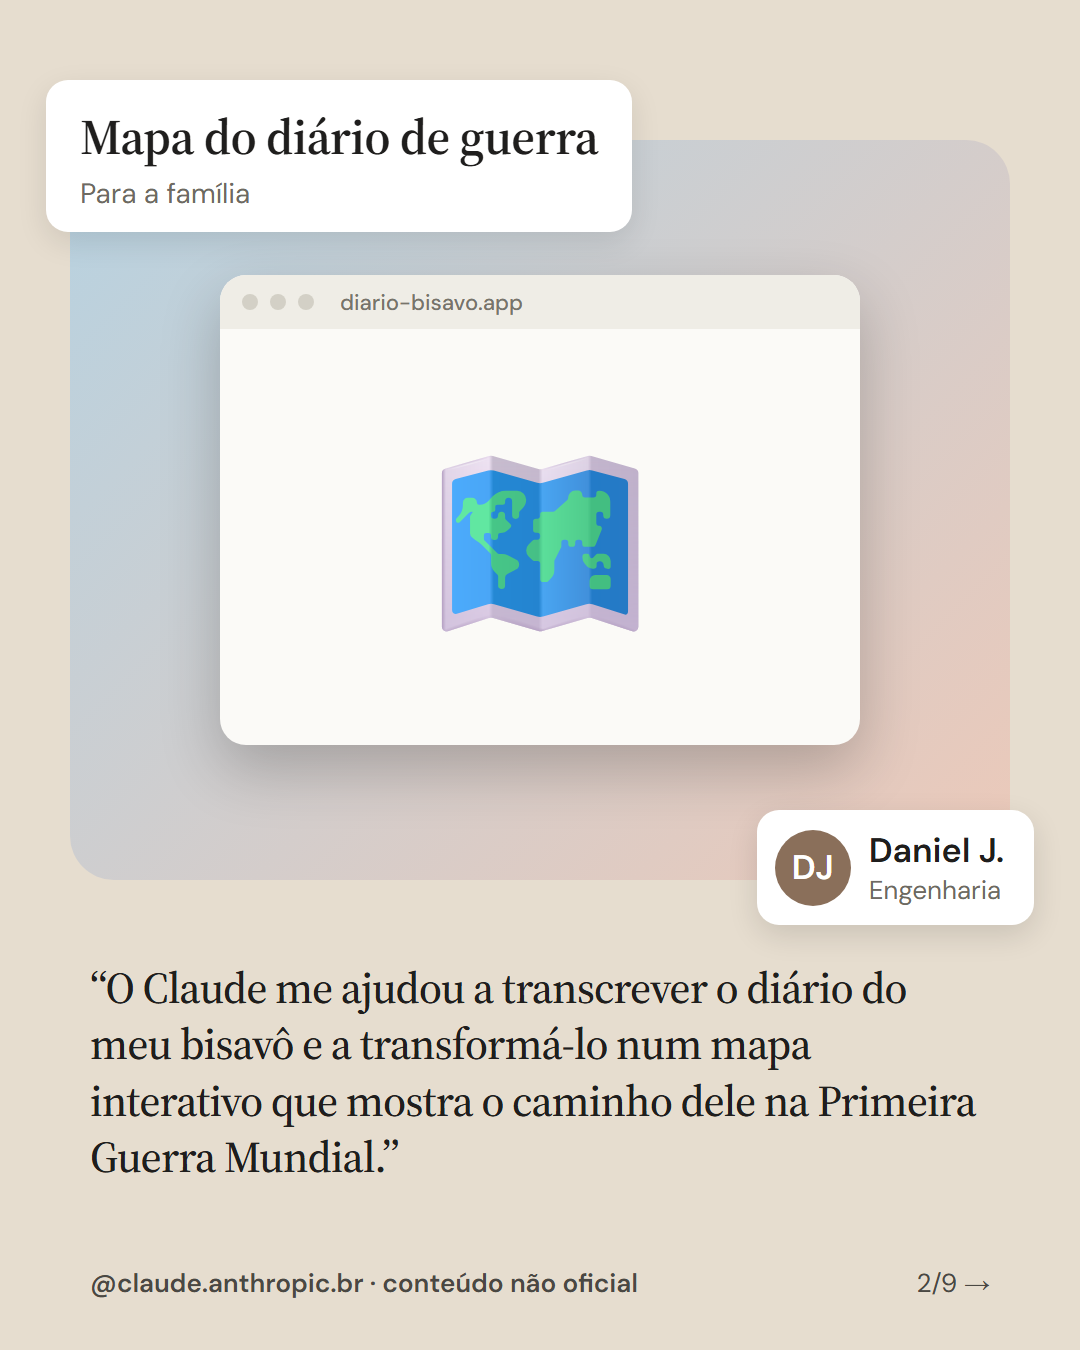
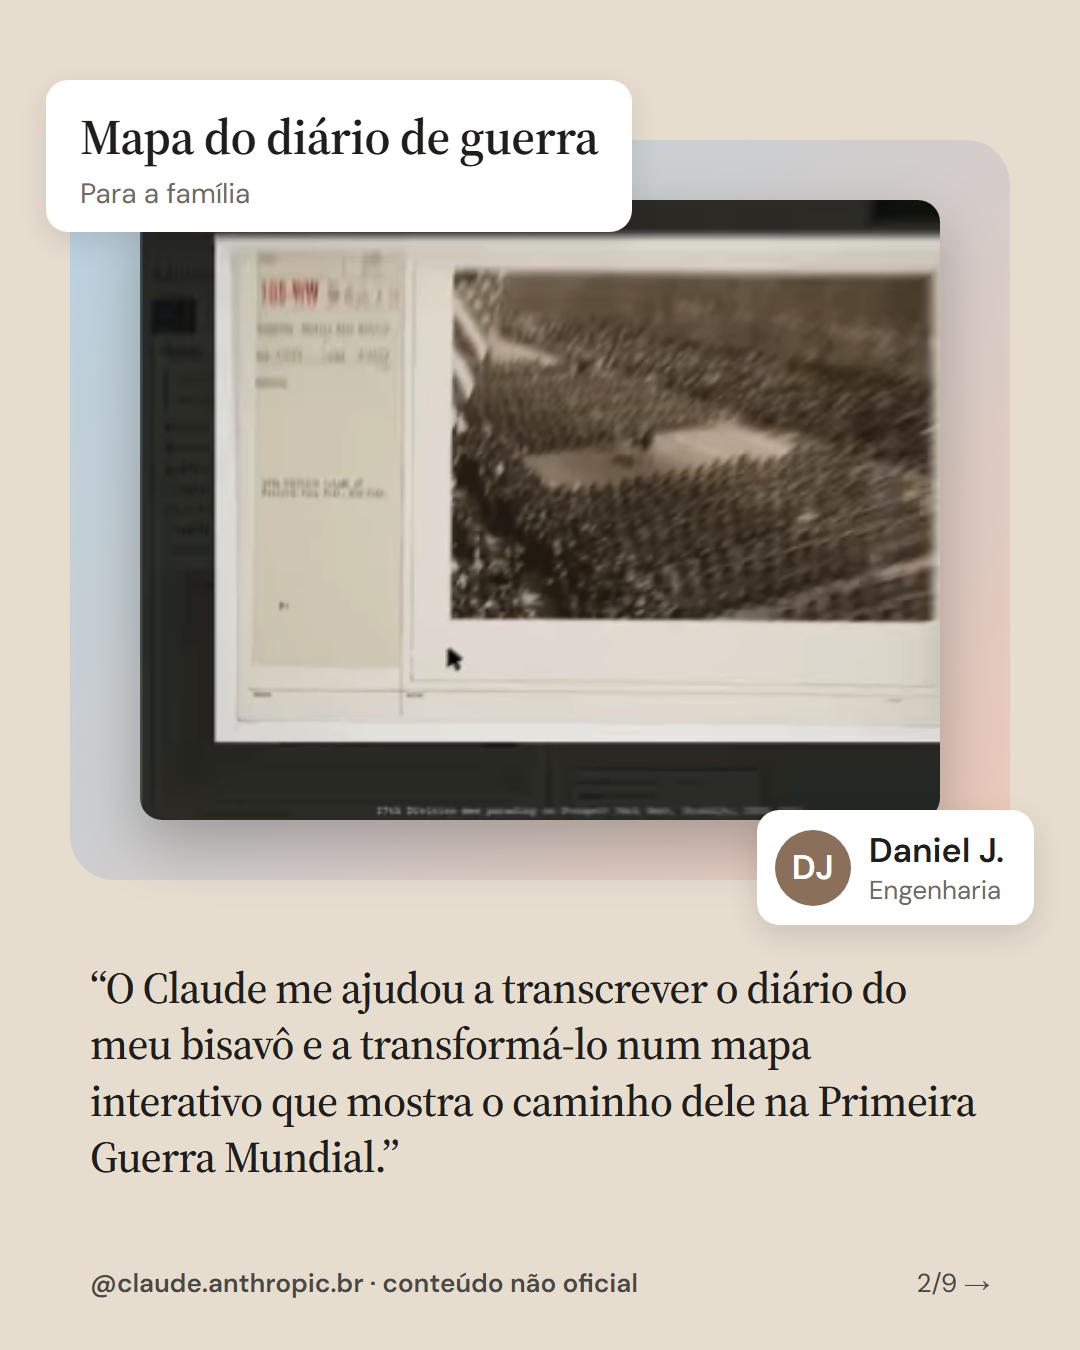
Usa telas reais dos projetos no carrossel Crie (quase) tudo

diff --git a/posts/2026-10-26-crie-quase-tudo/slides.html b/posts/2026-10-26-crie-quase-tudo/slides.html
@@ -26,6 +26,8 @@
   .bar i { width: 16px; height: 16px; border-radius: 50%; background: #d3d0c6; display: block; }
   .bar span { margin-left: 14px; font-size: 22px; color: #77746b; font-weight: 500; }
   .win .art { flex: 1; display: flex; align-items: center; justify-content: center; font-size: 200px; }
+  .shot { width: 800px; max-height: 620px; object-fit: cover; object-position: top; border-radius: 22px; box-shadow: 0 24px 60px rgba(0,0,0,.25); display: block; filter: contrast(1.04) saturate(1.05); }
+  .mini img { width: 100%; height: 100%; object-fit: cover; border-radius: 26px; display: block; }
   .tagcard { position: absolute; top: 80px; left: 46px; background: #fff; border-radius: 22px; padding: 22px 34px 20px; box-shadow: 0 10px 30px rgba(0,0,0,.10); }
   .tagcard .t { font-family: "Source Serif 4", serif; font-weight: 600; font-size: 50px; letter-spacing: -0.01em; }
   .tagcard .c { font-size: 28px; color: #6d6a62; margin-top: 4px; }
@@ -54,25 +56,25 @@
 <div class="foot"><b>@claude.anthropic.br · conteúdo não oficial</b><span id="pg"></span></div>
 <script>
 const projects = [
-  { bg: "#e6ddcf", panel: "linear-gradient(135deg,#b7d2e1,#ecc9b9)", t: "Mapa do diário de guerra", c: "Para a família", w: "diario-bisavo.app", art: "🗺",
+  { bg: "#e6ddcf", panel: "linear-gradient(135deg,#b7d2e1,#ecc9b9)", t: "Mapa do diário de guerra", c: "Para a família", w: "diario-bisavo.app", art: "🗺", img: "diario",
     n: "Daniel J.", r: "Engenharia", av: "#8a6f5a",
     q: "“O Claude me ajudou a transcrever o diário do meu bisavô e a transformá-lo num mapa interativo que mostra o caminho dele na Primeira Guerra Mundial.”" },
-  { bg: "#e7cfe1", panel: "linear-gradient(135deg,#1e3a8e,#4a7fe0)", t: "Como carregar uma câmera de filme", c: "Aprenda clicando", w: "camera-35mm.app", art: "📷",
+  { bg: "#e7cfe1", panel: "linear-gradient(135deg,#1e3a8e,#4a7fe0)", t: "Como carregar uma câmera de filme", c: "Aprenda clicando", w: "camera-35mm.app", art: "📷", img: "camera",
     n: "Alec W.", r: "Engenharia", av: "#5a7a8a",
     q: "“Sou fã de fotografia analógica e adoro mostrar aos amigos como as câmeras funcionam… então pedi ao Claude uma animação 3D interativa de como usar minha 35 mm.”" },
-  { bg: "#eed1d1", panel: "linear-gradient(135deg,#f5e6e6,#e6b5b5)", t: "Letterhand", c: "Só porque sim", w: "letterhand.app", art: "✍",
+  { bg: "#eed1d1", panel: "linear-gradient(135deg,#f5e6e6,#e6b5b5)", t: "Letterhand", c: "Só porque sim", w: "letterhand.app", art: "✍", img: "letterhand",
     n: "Tammy T.", r: "Design de Produto", av: "#a0566b",
     q: "“Criei um gerador de fontes ‘com a sua letra’. Você desenha as letras e baixa a sua própria fonte.”" },
-  { bg: "#cfdae6", panel: "linear-gradient(135deg,#2e6e5d,#a9e1b2)", t: "Rota das aves do Pacífico", c: "Aprenda clicando", w: "pacific-flyway.app", art: "🪿",
+  { bg: "#cfdae6", panel: "linear-gradient(135deg,#2e6e5d,#a9e1b2)", t: "Rota das aves do Pacífico", c: "Aprenda clicando", w: "pacific-flyway.app", art: "🪿", img: "flyway",
     n: "Alec W.", r: "Engenharia", av: "#5a7a8a",
     q: "“Assisti a uma palestra sobre os gansos-de-brant no Alasca. O Claude me ajudou a visualizar a rota migratória do Pacífico e a entender melhor a migração deles.”" },
-  { bg: "#d5d1e8", panel: "linear-gradient(135deg,#c0c4ef,#9ed4d6)", t: "Claude Photo Lab", c: "Projeto de fim de semana", w: "photo-lab.app", art: "🏞",
+  { bg: "#d5d1e8", panel: "linear-gradient(135deg,#c0c4ef,#9ed4d6)", t: "Claude Photo Lab", c: "Projeto de fim de semana", w: "photo-lab.app", art: "🏞", img: "photolab",
     n: "Pedram N.", r: "Educação", av: "#6b6aa8",
     q: "“Um editor de fotos com agente: você só conversa com ele, em vez de ficar mexendo em botões deslizantes.”" },
-  { bg: "#d0dcc6", panel: "linear-gradient(135deg,#edf2e8,#b6cead)", t: "Left on Thread", c: "Organização da vida", w: "left-on-thread.app", art: "💬",
+  { bg: "#d0dcc6", panel: "linear-gradient(135deg,#edf2e8,#b6cead)", t: "Left on Thread", c: "Organização da vida", w: "left-on-thread.app", art: "💬", img: "thread",
     n: "Ryan K.", r: "Confiança e Segurança", av: "#5f7d58",
     q: "“Eu queria um artifact que organizasse todas as minhas conversas abertas no Slack em três categorias simples.”" },
-  { bg: "#efd1c2", panel: "linear-gradient(135deg,#f2dccf,#d8c5ea)", t: "Galpão de bicicletas", c: "Projeto de fim de semana", w: "bike-shed.app", art: "🚲",
+  { bg: "#efd1c2", panel: "linear-gradient(135deg,#f2dccf,#d8c5ea)", t: "Galpão de bicicletas", c: "Projeto de fim de semana", w: "bike-shed.app", art: "🚲", img: "bikeshed",
     n: "Daniel J.", r: "Engenharia", av: "#8a6f5a",
     q: "“O Claude me ajudou a projetar um galpão para bicicletas, com um modelo 3D explodido… e uma lista de cortes e um guia de montagem completos.”" }
 ];
@@ -82,15 +84,15 @@ const app = document.getElementById("app");
 if (n === 1) {
   document.body.style.setProperty("--bg", "#c8d7cf");
   app.innerHTML = `
-    <div class="mini" style="left:-40px;top:40px;width:420px;height:300px;background:linear-gradient(135deg,#f4efe4,#e3dccb)">🗺</div>
-    <div class="mini" style="right:-30px;top:20px;width:400px;height:320px;background:linear-gradient(135deg,#9ec3d9,#cfe3c6)">🏞</div>
+    <div class="mini" style="left:-40px;top:40px;width:420px;height:300px;background:#fff"><img src="telas/diario.png"></div>
+    <div class="mini" style="right:-30px;top:20px;width:400px;height:320px;background:#fff"><img src="telas/photolab.png"></div>
     <div class="chip" style="left:60px;top:300px">Para a família</div>
     <div class="chip" style="right:60px;top:300px">Só porque sim</div>
     <div class="serif cover-title">Dá para criar (quase) tudo com o Claude</div>
     <div class="cover-sub">Você descreve o que quer e o Claude constrói. Veja o que o pessoal da Anthropic anda criando no tempo livre.</div>
     <div class="badge">Feito com Opus 5.5 e Sonnet 5.5</div>
-    <div class="mini" style="left:-30px;bottom:110px;width:420px;height:260px;background:linear-gradient(135deg,#f3e6cf,#e9d2b8)">🚲</div>
-    <div class="mini" style="right:-40px;bottom:110px;width:420px;height:260px;background:linear-gradient(135deg,#1e3a8e,#4a7fe0)">📷</div>
+    <div class="mini" style="left:-30px;bottom:110px;width:420px;height:260px;background:#fff"><img src="telas/bikeshed.png"></div>
+    <div class="mini" style="right:-40px;bottom:110px;width:420px;height:260px;background:#fff"><img src="telas/camera.png"></div>
     <div class="chip" style="left:60px;top:1000px">Projeto de fim de semana</div>
     <div class="chip" style="right:60px;top:1000px">Aprenda clicando</div>`;
 } else if (n === total) {
@@ -109,7 +111,7 @@ if (n === 1) {
   const initials = p.n.split(" ").map(s => s[0]).join("");
   app.innerHTML = `
     <div class="panel" style="background:${p.panel}">
-      <div class="win"><div class="bar"><i></i><i></i><i></i><span>${p.w}</span></div><div class="art">${p.art}</div></div>
+      <img class="shot" src="telas/${p.img}.png">
     </div>
     <div class="tagcard"><div class="t">${p.t}</div><div class="c">${p.c}</div></div>
     <div class="person"><div class="avatar" style="background:${p.av}">${initials}</div><div><div class="n">${p.n}</div><div class="r">${p.r}</div></div></div>
